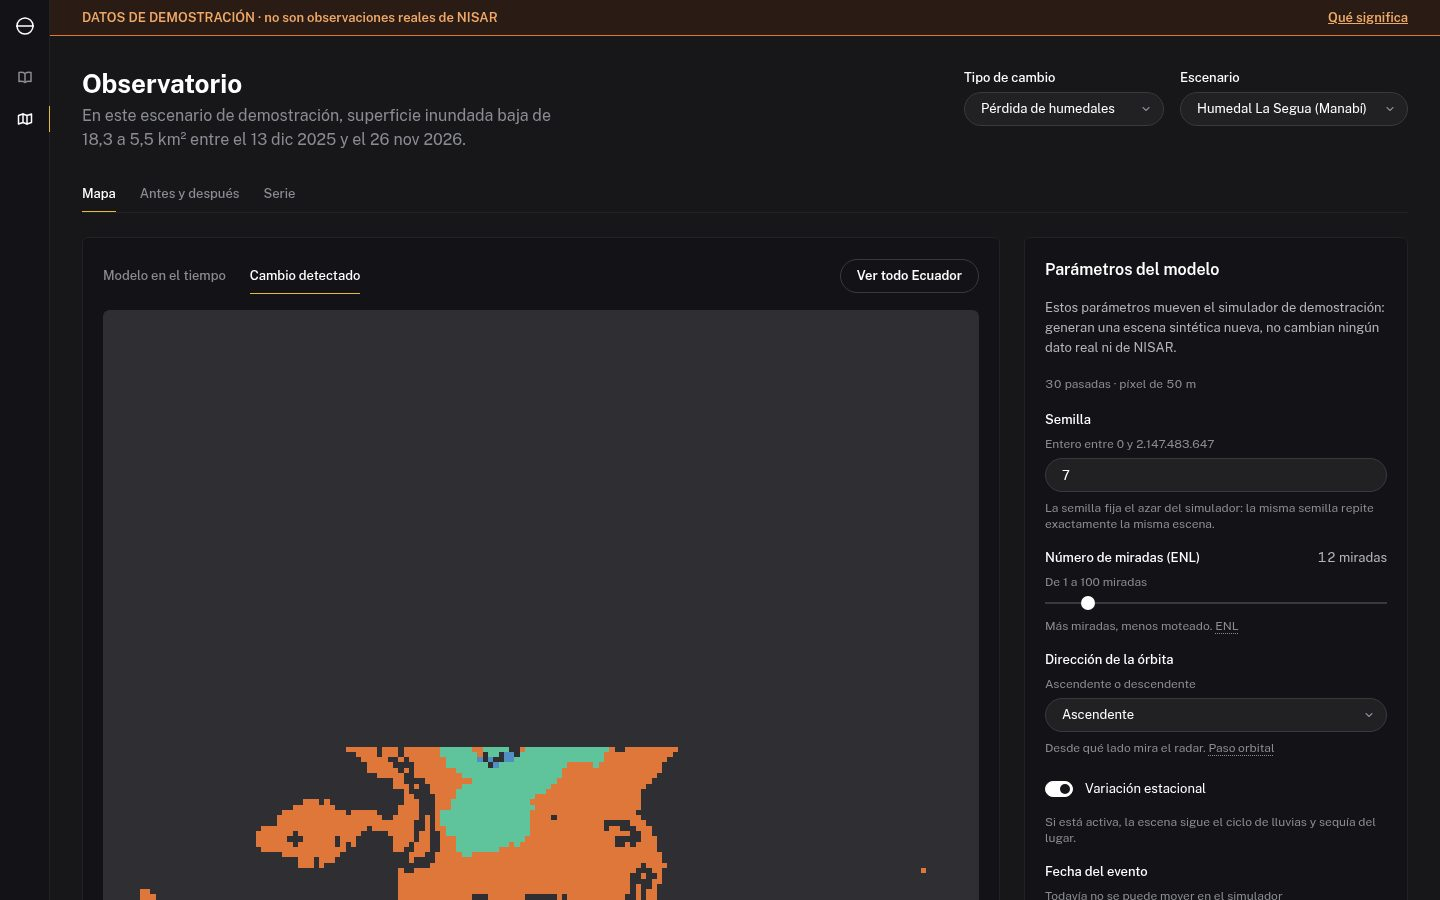
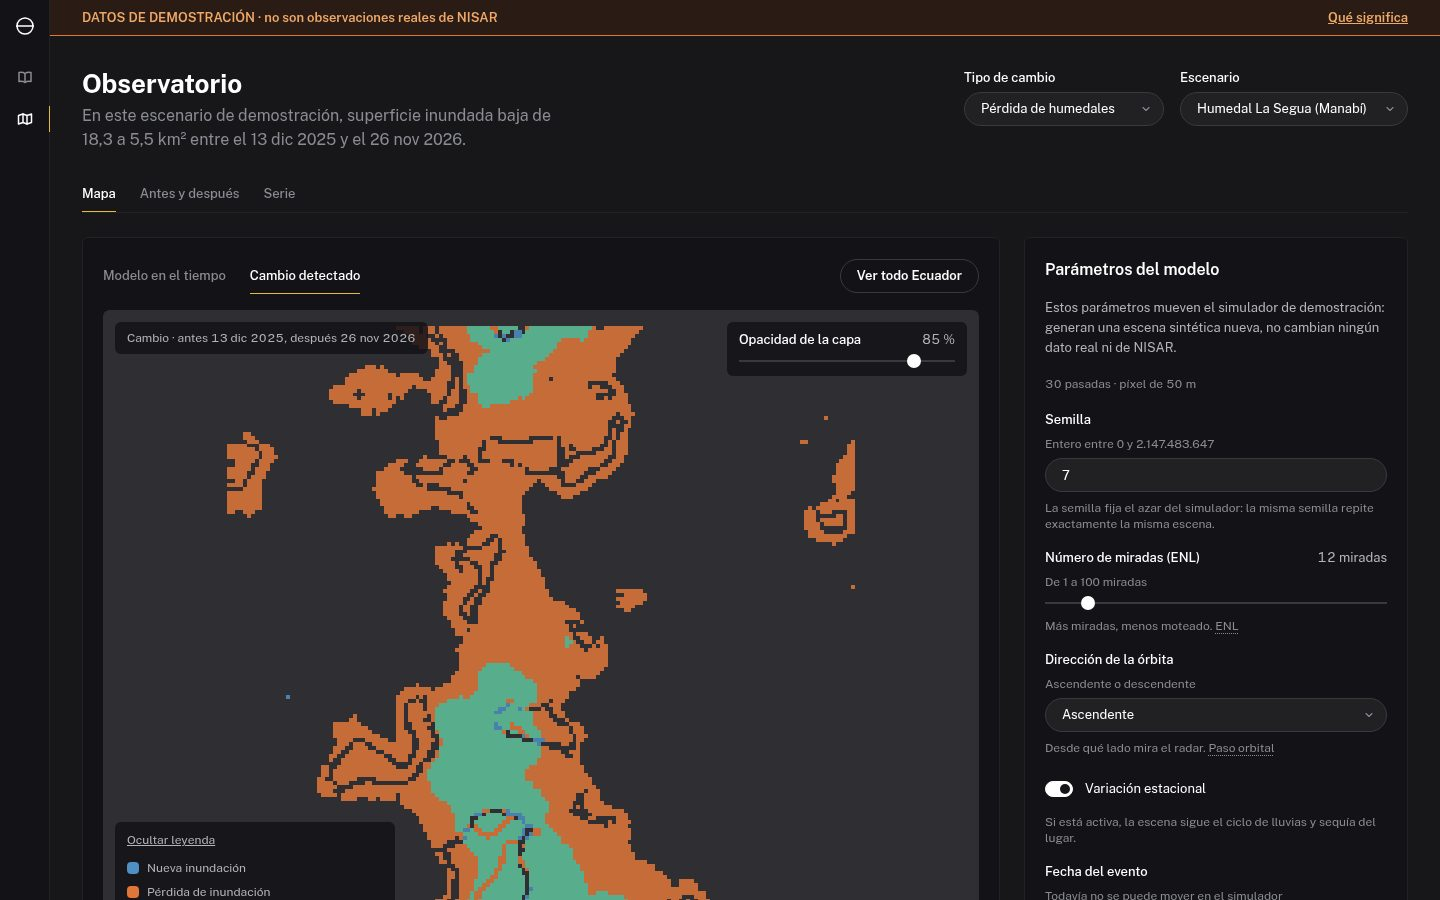
docs: mapa carta con mapas base de Esri, ciudades de respaldo y orden de capas

diff --git a/docs/diseno.md b/docs/diseno.md
@@ -221,13 +221,29 @@ Un pronóstico va punteado. Cero real: línea plana dibujada, no «sin datos».
 13 px gris sobre valor de 20 px en 400 a 600. La cifra de la respuesta es 1,3 veces mayor que sus vecinas.
 Cada cifra relativa dice su base («frente a la pasada anterior, 24 abr»).
 
-**Mapa (MapLibre).** Estilo propio en estos colores: tierra `#1b1b1f`, agua `#101014`, frontera de
-Ecuador en blanco al 60 % de 1 px, provincias en `#2e2e33`, fuera de Ecuador `#171719` al 80 %. **Primero
-local:** fondo, provincias, contorno y máscara salen del GeoJSON del repositorio, así que el mapa se
-dibuja sin internet; el mapa vectorial de OpenFreeMap es una capa opcional encima, y si falla no se
-nota más que la falta de calles. La capa de datos se pinta en un lienzo con las rampas de §4. Solo se
-pueden colocar puntos dentro de Ecuador. Atribución visible y pequeña, abajo a la derecha: geoBoundaries
-y, si está cargada, OpenFreeMap y OpenStreetMap.
+**Mapa (MapLibre) — carta geográfica.** Decisión del usuario (sustituye a «primero local, OpenFreeMap opcional»):
+el mapa **puede requerir internet** y es una carta con colores, etiquetas y terreno, porque eso sirve para
+analizar los datos. Estilo propio sobre un **fondo local** siempre presente: tierra `#1b1b1f`, agua
+`#101014`, provincias `#2e2e33` y fuera de Ecuador `#171719` al 80 % (el GeoJSON del repositorio, sin
+glyphs), frontera de Ecuador en blanco al 60 % de 1 px.
+
+- **Mapas base seleccionables** (control flotante «Mapa base», pestañas con línea de 1 px `--accent`):
+  *Oscuro* (Esri Canvas World_Dark_Gray_Base + World_Dark_Gray_Reference), *Satélite* (Esri World_Imagery +
+  Reference/World_Boundaries_and_Places) y *Relieve* (Esri World_Topo_Map, que ya trae sus etiquetas). Son
+  fuentes raster de MapLibre de `server.arcgisonline.com` (sin clave ni cuenta; URLs en `frontend/src/mapa/estilo.ts`).
+- **Orden de capas:** fondo local → mapa base → **capa de datos** (lienzo `nearest`, el 0 transparente,
+  opacidad regulable 10–100 %) → etiquetas de referencia → máscara de fuera de Ecuador → frontera y
+  límites provinciales. En *Relieve* las etiquetas van dentro de la tesela, bajo los datos.
+- **Sin red** (`VITE_MAPA_REMOTO=0`, `navigator.onLine` falso o cuatro errores de tesela sin ninguna cargada)
+  el mapa queda como el fondo local con provincias, y aparecen las **ciudades de respaldo**
+  (`frontend/src/mapa/ciudades.ts`: capitales de provincia y ciudades grandes, marcadores HTML de 12 px;
+  solo las tres mayores con el país entero). Con los mapas de Esri no se dibujan, para no duplicar etiquetas.
+- **Inmersión:** el mapa mide `--h-mapa` (alto de la ventana menos cabecera, con mínimo y máximo en tokens).
+  La leyenda (plegable), el rótulo de la pasada, el mapa base y la opacidad son placas flotantes `--surface`
+  al 85 % sobre el mapa, sin degradados ni brillos; la cinta de pasadas y sus controles siguen debajo.
+- Solo se pueden colocar puntos dentro de Ecuador. **Atribución** visible abajo a la derecha: geoBoundaries y
+  el texto que exige Esri para el mapa base elegido. La imagen satelital es fondo real; la capa de datos
+  sigue siendo sintética y su sello lo dice.
 
 **Origen de los datos (honestidad, obligatorio).**
 - **Banda de demostración:** franja de 36 px, ancho completo del lienzo, fondo `--demo-bg`, borde
@@ -309,7 +325,7 @@ Tres anchos de verificación: **1440 (escritorio), 768 (tablet), 390 (móvil)**.
 La app **no necesita fotografías**: los visuales son los mapas, las imágenes de radar y los gráficos que
 genera. Por eso no hay búsqueda de imágenes en colecciones abiertas. Los créditos van en `CREDITOS.md`,
 al pie de Historias y, en pequeño, sobre el mapa: NASA POWER, geoBoundaries (CC0), SRTM / Terrain Tiles
-(AWS Open Data, solo Modo Dios), OpenFreeMap y OpenStreetMap si se carga esa capa, Public Sans (SIL OFL).
+(AWS Open Data, solo Modo Dios), los mapas base de Esri (Dark Gray, World Imagery, World Topo y sus etiquetas; OpenStreetMap, HERE, Garmin y otros según la atribución del servicio) cuando hay internet, Public Sans (SIL OFL).
 ASF DAAC y cualquier producto NISAR se acreditan solo cuando se usen datos reales, con la cita oficial.
 
 ## 12. Lista «anti-slop»: lo que NO debe aparecer

diff --git a/CREDITOS.md b/CREDITOS.md
@@ -10,8 +10,8 @@ usan todavía: todo lo que muestra la app es sintético (ver `README.es.md`).
 | NASA POWER (power.larc.nasa.gov) | Climatología 2001–2025 (`data/clima_ecuador_power.csv`) | Datos abiertos de la NASA; cita al proyecto NASA POWER |
 | geoBoundaries | Límites provinciales (`data/ecuador_provincias.geojson`) | CC0 |
 | SRTM / Terrain Tiles (AWS Open Data) | Relieve del Modo Dios, **solo en la app Streamlit heredada** (`data/terreno/`) | AWS Open Data |
-| OpenFreeMap | Mapa base opcional del Observatorio (desactivable) | Datos abiertos; atribución en el mapa |
-| OpenStreetMap | Datos de OpenFreeMap | ODbL, © colaboradores de OpenStreetMap |
+| Esri (World Dark Gray Base y Reference, World Imagery, World Boundaries and Places, World Topo Map) | Mapas base y etiquetas del Observatorio cuando hay internet (servicios públicos de `server.arcgisonline.com`, sin clave); la atribución exacta de cada servicio se muestra en el mapa | Términos de uso de Esri; datos de Esri, HERE, Garmin, © colaboradores de OpenStreetMap, Vantor, Earthstar Geographics, USGS, NOAA y otros |
+| Conocimiento geográfico general | Nombres y coordenadas aproximadas de las ciudades de respaldo del mapa sin red (`frontend/src/mapa/ciudades.ts`) | Pendiente de verificar contra una fuente oficial |
 | ASF DAAC y productos NISAR | — | Se acreditarán cuando se usen datos reales |
 
 ## Tipografía

diff --git a/README.es.md b/README.es.md
@@ -9,7 +9,7 @@ English: [README.md](README.md)
 Una app web abierta que muestra cómo el radar NISAR (NASA-ISRO) puede «ver» **inundaciones y humedales** (historia principal, Costa baja de Ecuador) e **incendios forestales** (segunda historia, Sierra), con un observatorio para los seis tipos de cambio que menciona el challenge. Se hizo para el NASA Space Apps Challenge **«Dancing with the SARs»**, cuyo objetivo (resumen propio, no el texto oficial) es una app interactiva y fácil de usar que traduzca observaciones de radar en información legible sobre cambios en la superficie. Ver [docs/challenge.md](docs/challenge.md).
 
 - **Historias** (`/`): lectura guiada de cada caso, con comparador antes/después, polarizaciones, cinta de pasadas e hipótesis ilustrativas.
-- **Observatorio** (`/observatorio`): vistas Mapa, Antes y después y Serie, mediciones y un panel de simulación.
+- **Observatorio** (`/observatorio`): vistas Mapa, Antes y después y Serie, mediciones y un panel de simulación. El mapa es una carta geográfica con mapas base Oscuro, Satélite y Relieve de **Esri**, que se piden por internet (sin clave ni cuenta); sin conexión sigue funcionando con las provincias locales y las ciudades principales, sin las etiquetas ni el terreno de Esri.
 
 ## Instalación y arranque
 

diff --git a/README.md b/README.md
@@ -9,7 +9,7 @@ Español: [README.es.md](README.es.md)
 An open web app that shows how the NISAR radar (NASA-ISRO) can "see" **floods and wetlands** (main story, lowland coast of Ecuador) and **wildfires** (second story, Andes), plus an observatory for the six change types named by the challenge. It was built for the NASA Space Apps Challenge **"Dancing with the SARs"**, whose goal (our own summary, not the official text) is an easy-to-use interactive app that turns radar observations into readable information about surface change. See [docs/challenge.md](docs/challenge.md).
 
 - **Stories** (`/`): a guided read of each case, with a before/after slider, polarizations, a pass timeline and illustrative hypotheses.
-- **Observatory** (`/observatorio`): Map, Before/after and Time series views, measurements, and a simulation panel.
+- **Observatory** (`/observatorio`): Map, Before/after and Time series views, measurements, and a simulation panel. The map is a geographic chart with Dark, Satellite and Relief base maps from **Esri**, fetched over the internet (no key or account); offline it still works with local provinces and main cities, without the Esri labels and terrain.
 
 ## Install and run
 

diff --git a/docs/historia-datos.md b/docs/historia-datos.md
@@ -58,8 +58,8 @@ Las cifras se leen en pantalla (las calcula la app); no las memorices ni las inv
 
 ## Extra (si sobra tiempo): el Observatorio
 
-Ruta `/observatorio`. Mismo escenario, tres vistas: **Mapa** (capas sobre el mapa; la base de OpenFreeMap es
-opcional), **Antes y después** (comparador deslizante) y **Serie** (serie temporal del escenario). Un panel de
+Ruta `/observatorio`. Mismo escenario, tres vistas: **Mapa** (capas sobre el mapa; los mapas base de Esri (Oscuro, Satélite, Relieve) son
+opcionales: requieren internet), **Antes y después** (comparador deslizante) y **Serie** (serie temporal del escenario). Un panel de
 **simulación** permite cambiar parámetros (semilla, miradas/ENL, dirección de la órbita, variación estacional y los
 controles propios de cada tipo de cambio) y ver otra escena sintética; con la misma semilla se repite la misma escena.
 Los seis tipos de cambio del challenge están en el selector. Sigue siendo demostración: la banda no se cierra.

diff --git a/docs/challenge.md b/docs/challenge.md
@@ -92,7 +92,7 @@ la lista oficial y los requisitos de entrega cuando estén disponibles.
 | geoBoundaries gbOpen ECU ADM1, CC0 (`scripts/preparar_datos_ecuador.py:20`) → `data/ecuador_provincias.geojson` | Provincias | Dato real complementario ya descargado |
 | Teselas Terrarium de AWS Open Data (`modelo/desastres.py:49`) | Relieve SRTM del Modo Dios | Dato real complementario, se descarga al usar el Modo Dios |
 | OpenStreetMap Nominatim (`app.py:660`) | Geocodificación | Servicio externo |
-| Esri World Dark Gray e Imagery (`app.py:503-508`) | Mapas base | Servicio externo |
+| Esri World Dark Gray e Imagery (`app.py:503-508`) | Mapas base; el frontend React los usa (más Topo y etiquetas de referencia) cuando hay internet | Servicio externo, sin clave; ya en uso |
 
 ## Requisitos de entrega
 
